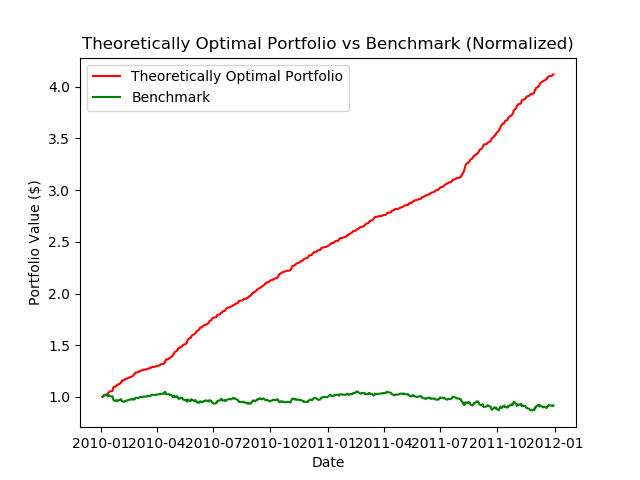
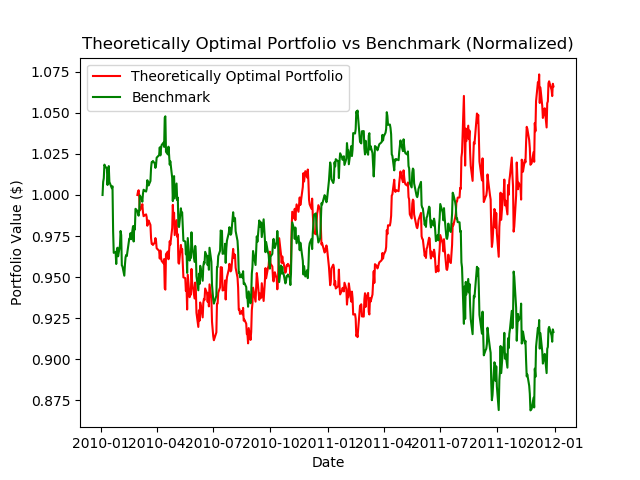
implemented bollinger bands strategy

diff --git a/ML4T_2019Fall/manual_strategy/ManualStrategy.py b/ML4T_2019Fall/manual_strategy/ManualStrategy.py
@@ -1,0 +1,143 @@
+import pandas as pd
+import numpy as np
+from util import get_data, plot_data
+import matplotlib.pyplot as plt
+import datetime as dt
+from manual_strategy.marketsimcode import get_symbols_prices, df_trades_transform, \
+    compute_portvals, get_portfolio_stats
+from manual_strategy.indicators import get_rolling_mean, get_rolling_std, get_bollinger_bands
+
+class ManualStrategy (object):
+
+    def __init__(self):
+        self.short_entry = []
+        self.long_entry = []
+
+    def test_bench_mark(self, symbol = "AAPL", sd=dt.datetime(2010, 1, 1), ed=dt.datetime(2011,12,31), sv = 100000):
+        symbols_prices_df = get_symbols_prices([symbol], sd, ed)
+        adj_sd = symbols_prices_df.index[0] #don't remove. date may change depending on if market open
+        adj_ed = symbols_prices_df.index[-1]
+        df_trades_benchmark = pd.DataFrame(data= [1000, -1000], index = [adj_sd, adj_ed], columns = ['orders'])
+
+        return df_trades_benchmark
+
+    def testPolicy(self, symbol = "AAPL", sd=dt.datetime(2010, 1, 1), ed=dt.datetime(2011,12,31), sv = 100000):
+        symbols_prices_df = get_symbols_prices([symbol], sd, ed)
+        window = 20
+        net_holdings = 0
+        order_size = []
+        order_date = []
+        prices = symbols_prices_df[symbol]
+
+        #bollinger band strategy
+        rolling_mean = get_rolling_mean(prices, window)
+        rolling_std = get_rolling_std(prices, window)
+        upper_band, lower_band = get_bollinger_bands(rolling_mean, rolling_std)
+
+        #get new dataframe using bollinger band and adjust for nan days
+        upper_band_without_nan = upper_band[upper_band.notnull()].to_frame()
+        upper_band_without_nan_series = upper_band[upper_band.notnull()]
+        lower_band_without_nan = lower_band[lower_band.notnull()].to_frame()
+        lower_band_without_nan_series = lower_band[lower_band.notnull()]
+        sd_adj_for_nan = upper_band_without_nan.index[0]
+        ed_adj_for_nan = upper_band_without_nan.index[-1]
+
+        symbols_prices_df_adj_for_nan = get_symbols_prices([symbol], sd_adj_for_nan, ed_adj_for_nan)
+        prices_adj_for_nan = symbols_prices_df_adj_for_nan[symbol]
+        total_number_of_trading_days = len(symbols_prices_df_adj_for_nan.index)
+
+        for day in range(total_number_of_trading_days-1): # minus 1 to offset last day
+            day = day+1 #ignore first day since -1 will get last day of series
+            day_before = day-1
+            date_of_order = symbols_prices_df_adj_for_nan.index[day]
+
+            upper_band_day_before_adj_for_nan = upper_band_without_nan_series[day_before]
+            upper_band_day_adj_for_nan = upper_band_without_nan_series[day]
+
+
+            lower_band_day_before_adj_for_nan = lower_band_without_nan_series[day_before]
+            lower_band_day_adj_for_nan = lower_band_without_nan_series[day]
+
+            price_day_before_adj_for_nan = prices_adj_for_nan[day_before]
+            price_adj_for_nan = prices_adj_for_nan[day]
+
+            #check if price of stock day before is higher than the upper bb day before
+            #check if price of stock day is lower than the upper bb
+            if price_day_before_adj_for_nan > upper_band_day_before_adj_for_nan \
+                    and price_adj_for_nan < upper_band_day_adj_for_nan \
+                    and net_holdings != -1000:
+                order_date.append(date_of_order)
+                order_size.append(-1000-net_holdings)
+                net_holdings = -1000
+                self.short_entry.append(date_of_order)
+            elif price_day_before_adj_for_nan < lower_band_day_before_adj_for_nan \
+                    and price_adj_for_nan > lower_band_day_adj_for_nan \
+                    and net_holdings != 1000:
+                order_date.append(date_of_order)
+                order_size.append(1000-net_holdings)
+                net_holdings = 1000
+                self.long_entry.append(date_of_order)
+
+
+
+        if net_holdings in (1000, -1000): # sell any outstanding share to calculate total cash value of port on last day
+            order_date.append(symbols_prices_df.index[-1])
+            order_size.append(- net_holdings)
+
+        df_trades = pd.DataFrame(data = order_size, index = order_date, columns = ['orders'])
+
+        return df_trades
+
+
+def main():
+    sd = dt.datetime(2010,1,1)
+    ed = dt.datetime(2011,12,31)
+    ms = ManualStrategy()
+
+    #df_trades with optimal strategy
+    df_trades = ms.testPolicy('JPM', sd, ed, 100000)
+    df_trades_transformed = df_trades_transform(df_trades)
+    portvals = compute_portvals(df_trades_transformed, start_val=100000, commission=0, impact=0)
+    cum_ret, avg_daily_ret, std_daily_ret, sharpe_ratio = get_portfolio_stats(portvals)
+
+    #df_trades with benchmark (buy once, hold, sell at end)
+    df_trades_benchmark = ms.test_bench_mark('JPM', sd, ed, 100000)
+    df_trades_benchmark_transformed = df_trades_transform(df_trades_benchmark)
+    portvals_bench = compute_portvals(df_trades_benchmark_transformed, start_val=100000, commission=0, impact=0)
+    cum_ret_bench, avg_daily_ret_bench, std_daily_ret_bench, sharpe_ratio_bench = get_portfolio_stats(portvals_bench)
+
+    print(df_trades)
+    print(df_trades_transformed)
+    print(portvals)
+    # Compare portfolio against $SPX
+    print(f"Date Range: {sd} to {ed}")
+    print()
+    print(f"Sharpe Ratio of Fund: {sharpe_ratio}")
+    print(f"Sharpe Ratio of Benchmark : {sharpe_ratio_bench}")
+    print()
+    print(f"Cumulative Return of Fund: {cum_ret}")
+    print(f"Cumulative Return of Benchmark : {cum_ret_bench}")
+    print()
+    print(f"Standard Deviation of Fund: {std_daily_ret}")
+    print(f"Standard Deviation of Benchmark : {std_daily_ret_bench}")
+    print()
+    print(f"Average Daily Return of Fund: {avg_daily_ret}")
+    print(f"Average Daily Return of Benchmark : {avg_daily_ret_bench}")
+    print()
+    print(f"Final Portfolio Value of Fund: {portvals[-1]}")
+    print(f"Final Portfolio Value of Benchmark: {portvals_bench[-1]}")
+
+    #normalize then plot
+    portvals_normalized = portvals/portvals.iloc[0,]
+    portvals_bench_normalized = portvals_bench/portvals_bench.iloc[0,]
+
+    plt.plot(portvals_normalized, 'r', label="Theoretically Optimal Portfolio")
+    plt.plot(portvals_bench_normalized, 'g', label="Benchmark")
+    plt.legend()
+    plt.title("Theoretically Optimal Portfolio vs Benchmark (Normalized)")
+    plt.xlabel("Date")
+    plt.ylabel("Portfolio Value ($)")
+    plt.savefig('Manual Strategy vs Benchmark (Normalized).png')
+
+if __name__ == "__main__":
+    main()

diff --git a/ML4T_2019Fall/manual_strategy/indicators.py b/ML4T_2019Fall/manual_strategy/indicators.py
@@ -1,0 +1,73 @@
+import pandas as pd
+import numpy as np
+from util import get_data, plot_data
+import matplotlib.pyplot as plt
+import datetime as dt
+from manual_strategy.marketsimcode import get_symbols_prices, df_trades_transform, \
+    compute_portvals, get_portfolio_stats
+
+def get_rolling_mean(values, window):
+    rolling_mean = values.rolling(window).mean()
+    return rolling_mean
+
+def get_rolling_std(values, window):
+    rolling_std = values.rolling(window).std()
+    return rolling_std
+
+def get_bollinger_bands(rolling_mean, rolling_std):
+    upper_band = rolling_mean + rolling_std * 2
+    lower_band = rolling_mean - rolling_std * 2
+    return upper_band, lower_band
+
+def main():
+    sd = dt.datetime(2010,1,1)
+    ed = dt.datetime(2011,12,31)
+
+
+    #df_trades with optimal strategy
+    df_trades = ms.testPolicy('JPM', sd, ed, 100000)
+    df_trades_transformed = df_trades_transform(df_trades)
+    portvals = compute_portvals(df_trades_transformed, start_val=100000, commission=0, impact=0)
+    cum_ret, avg_daily_ret, std_daily_ret, sharpe_ratio = get_portfolio_stats(portvals)
+
+    #df_trades with benchmark (buy once, hold, sell at end)
+    df_trades_benchmark = ms.test_bench_mark('JPM', sd, ed, 100000)
+    df_trades_benchmark_transformed = df_trades_transform(df_trades_benchmark)
+    portvals_bench = compute_portvals(df_trades_benchmark_transformed, start_val=100000, commission=0, impact=0)
+    cum_ret_bench, avg_daily_ret_bench, std_daily_ret_bench, sharpe_ratio_bench = get_portfolio_stats(portvals_bench)
+
+    print(df_trades)
+    print(df_trades_transformed)
+    print(portvals)
+    # Compare portfolio against $SPX
+    print(f"Date Range: {sd} to {ed}")
+    print()
+    print(f"Sharpe Ratio of Fund: {sharpe_ratio}")
+    print(f"Sharpe Ratio of Benchmark : {sharpe_ratio_bench}")
+    print()
+    print(f"Cumulative Return of Fund: {cum_ret}")
+    print(f"Cumulative Return of Benchmark : {cum_ret_bench}")
+    print()
+    print(f"Standard Deviation of Fund: {std_daily_ret}")
+    print(f"Standard Deviation of Benchmark : {std_daily_ret_bench}")
+    print()
+    print(f"Average Daily Return of Fund: {avg_daily_ret}")
+    print(f"Average Daily Return of Benchmark : {avg_daily_ret_bench}")
+    print()
+    print(f"Final Portfolio Value of Fund: {portvals[-1]}")
+    print(f"Final Portfolio Value of Benchmark: {portvals_bench[-1]}")
+
+    #normalize then plot
+    portvals_normalized = portvals/portvals.iloc[0,]
+    portvals_bench_normalized = portvals_bench/portvals_bench.iloc[0,]
+
+    plt.plot(portvals_normalized, 'r', label="Theoretically Optimal Portfolio")
+    plt.plot(portvals_bench_normalized, 'g', label="Benchmark")
+    plt.legend()
+    plt.title("Theoretically Optimal Portfolio vs Benchmark (Normalized)")
+    plt.xlabel("Date")
+    plt.ylabel("Portfolio Value ($)")
+    plt.savefig('Theoretically Optimal Portfolio vs Benchmark (Normalized).png')
+
+if __name__ == "__main__":
+    main()

diff --git a/ML4T_2019Fall/manual_strategy/marketsimcode.py b/ML4T_2019Fall/manual_strategy/marketsimcode.py
@@ -44,6 +44,8 @@ def get_symbols_prices(symbols, start_date, end_date):
     symbols_prices_df = get_data(symbols, pd.date_range(start_date, end_date))
     return symbols_prices_df
 
+
+
 def initialize_symbols_to_prices_df(df, symbols, start_val):
     for symbol in symbols:
         df[symbol + ' Shares'] = pd.Series(0, index=df.index)
